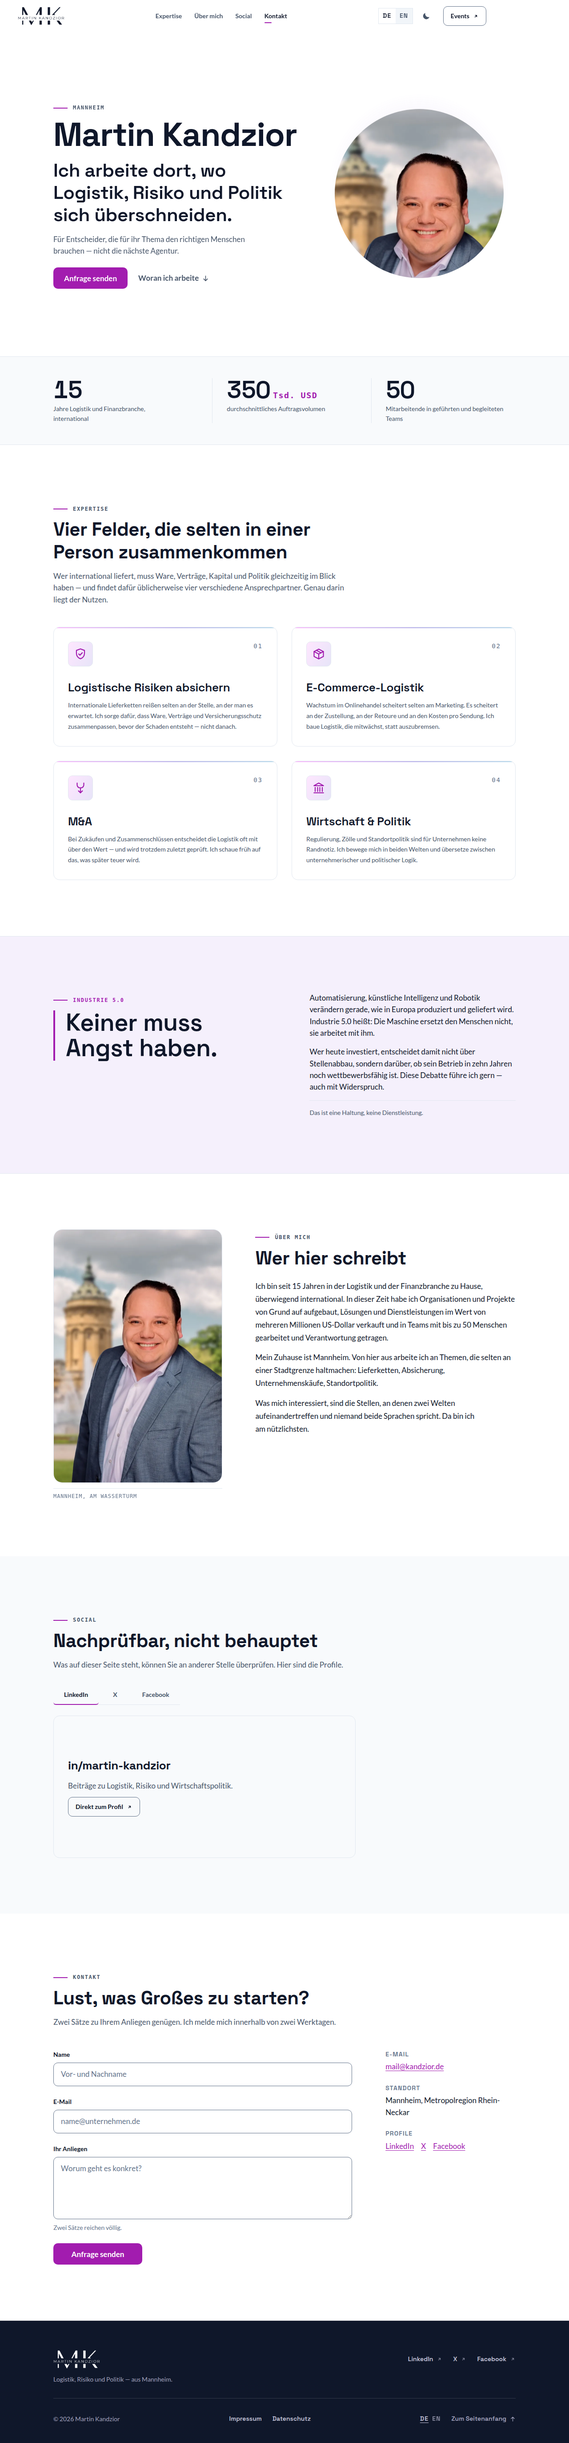
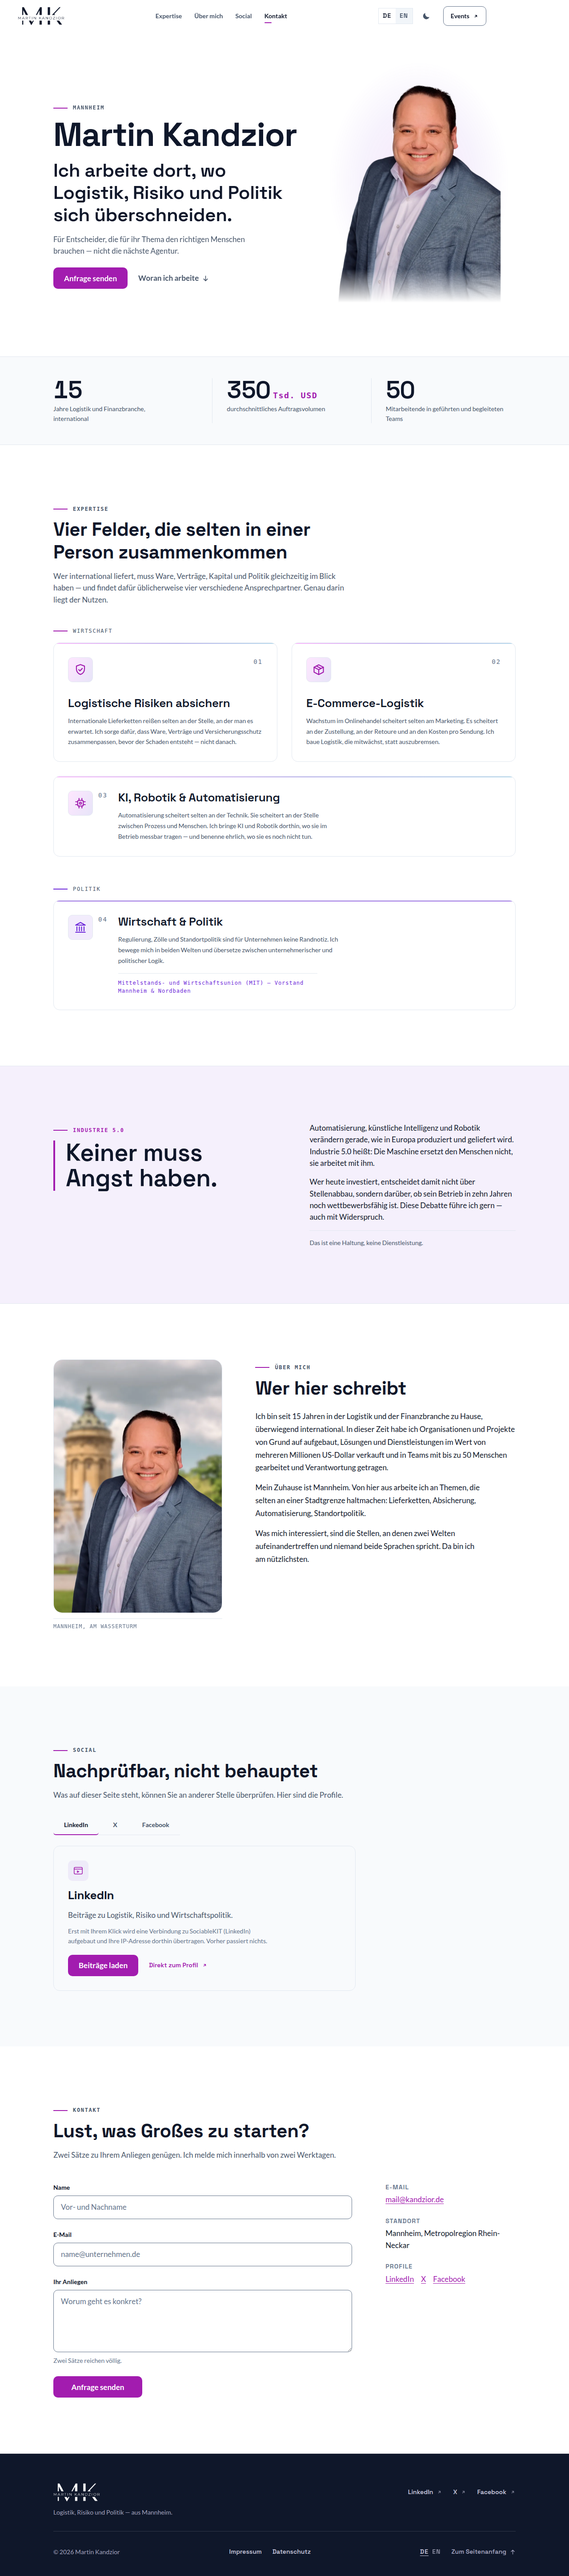
Freisteller-Hero: transparentes Portrait ersetzt die runde Maske
Das freigestellte Portrait ist da (WebP mit echtem Alpha, auf den
Inhalt beschnitten, 800×1052, 111 KB) — der Hero zeigt jetzt die
ursprünglich geplante Komposition: Person ohne Maske direkt über dem
Neon-Schein, die Leuchtröhren laufen hinter ihr durch. Ein Verlaufs-
Fade am unteren Bildrand löst die Schnittkante des Fotos auf.

Aufgeräumt und gemessen: runde Maske und portrait-hero.webp entfernt;
Regression behoben — das höhere Seitenverhältnis sprengte die mobile
667px-Grenze um 11px, die Portraitbreite steht dort jetzt auf 100px.
hero prüft Quelle und maskenfreie Darstellung; Startseite 286,5 KB,
CLS 0,0019, alle zwölf Suiten grün.

Claude-Session: https://claude.ai/code/session_017Xwob6sdxpQ2xTbn3eirFc

diff --git a/.design/kandzior-de/TASKS.md b/.design/kandzior-de/TASKS.md
@@ -247,3 +247,15 @@ Ersetzt die frühere Vorgabe „M&A & AI trennen" aus dem Grill Me.
   der Karte). NUR dort: Biografie und JSON-LD bleiben neutral —
   expertise prüft die Zeile, polish weiter die Schema-Neutralität.
   Leitplanken-Änderung im Brief dokumentiert.
+
+## Freisteller-Hero (2026-08-19)
+
+- [x] **F-1:** Transparentes Portrait angekommen (aus dem Sitzungs-
+  protokoll extrahiert, echtes Alpha belegt: Ecken 0, 44,6 % transparent).
+  Auf Inhalt beschnitten, 800×1052 WebP mit Alpha (111 KB).
+- [x] **F-2:** Hero-Variante auf die ursprünglich geplante Komposition:
+  Freisteller ohne Maske über dem Neon-Schein, Verlaufs-Fade löst die
+  Schnittkante des Fotos auf; runde Maske und portrait-hero.webp
+  entfernt. Regression behoben: 800/1052 statt Quadrat sprengte die
+  667px-Grenze um 11px → Mobilbreite 100px. Startseite 286,5 KB,
+  CLS 0,0019, alle zwölf Suiten grün (hero prüft die neue Quelle).
